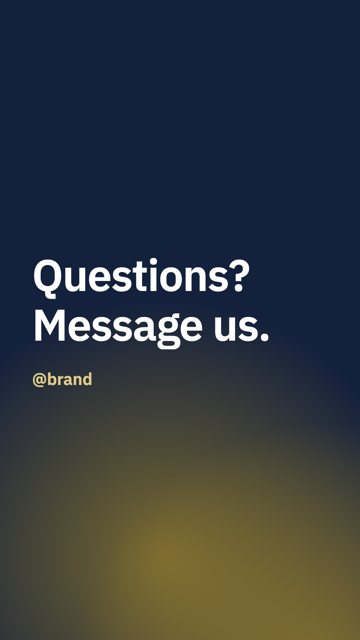
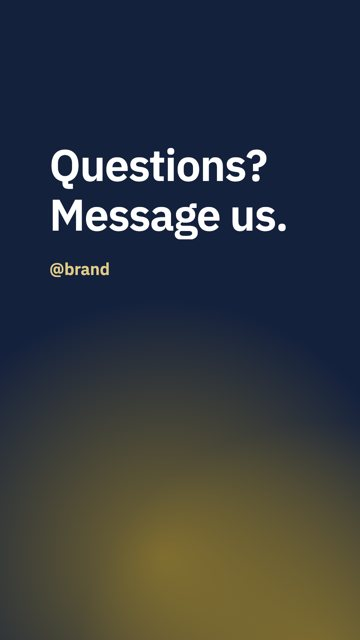
Kit: CTA box inside the safe zone; swiss dark accents use the brand colour

diff --git a/kits/storyboard/text_motion.html b/kits/storyboard/text_motion.html
@@ -71,7 +71,7 @@ html,body{margin:0;width:var(--W,1080px);height:var(--H,1920px);overflow:hidden;
 .qanum{font:600 200px/1 var(--head);color:var(--accent-ink);margin-bottom:30px} .qaq{font:600 78px/1.2 var(--head)}
 .qaa{font:400 56px/1.6 var(--body);text-wrap:pretty;margin-top:auto;padding-top:40px;border-top:3px solid var(--accent)} .qasrc{position:absolute;left:64px;bottom:56px;font:400 34px var(--body);opacity:.7}
 .pageno{position:absolute;right:120px;bottom:120px;font:600 44px var(--body);opacity:.85}
-.ct{background:var(--ink);color:#fff;display:flex;align-items:center} .ctbox{position:absolute;left:96px;right:96px;top:50%;transform:translateY(-50%)}
+.ct{background:var(--ink);color:#fff;display:flex;align-items:center} .ctbox{position:absolute;left:148px;right:120px;top:420px}   /* inside the safe zone: x ≥ 120 and, from y 420, ends above y 840 where the right edge would have to stop at 780 (SL-05 review) */
 .cth{font:600 132px/1.12 var(--head)} .ctsub{font:500 50px/1.45 var(--body);margin-top:32px} .cthandle{font:600 50px var(--body);margin-top:56px;color:color-mix(in srgb,var(--accent) 55%,#fff)}
 
 /* chart (R-05) */
@@ -140,7 +140,7 @@ body:not(.landscape) .dghead{top:15%;left:12%;right:12%} body:not(.landscape) .d
 .nt{padding:90px 84px} .ntlist{margin-top:6px} .ntp{font:400 37px/1.36 var(--body);padding:12px 0 12px 32px;border-top:2px solid rgba(127,127,127,.35);position:relative}
 .ntp::before{content:'';position:absolute;left:0;top:34px;width:12px;height:12px;border-radius:50%;background:var(--accent)} .ntfoot{margin-top:20px;font:600 37px/1.36 var(--body)}
 body.square .phbox{top:150px} body.square .phbig{font-size:120px} body.square .beat:not(.ph){padding:150px 120px 120px}
-.plat-shorts .beat:not(.ph):not(.sp){padding-top:440px;padding-right:140px} .theme-swiss .dark .accent,.theme-swiss .dark .num{color:#FF5A5A} .theme-organic .small{font-size:56px;line-height:1.24}
+.plat-shorts .beat:not(.ph):not(.sp){padding-top:440px;padding-right:140px} .theme-swiss .dark .accent,.theme-swiss .dark .num{color:var(--accent)}   /* the card's brand accent, not a fixed red (SL-05 review) */ .theme-organic .small{font-size:56px;line-height:1.24}
 body:not(.landscape) .dgt{font-size:92px} body:not(.landscape) .dgnode{font-size:52px;padding:14px 10px} body:not(.landscape) .dgnum{font-size:68px} .landscape .dgt{font-size:92px} .landscape .dgnode{font-size:44px}
 .theme-cinema .phbig{font-size:150px;font-weight:500}
 .beat.sp:not(.spfull) .spname{top:22px;bottom:auto} .plat-story .handle{display:none}

diff --git a/kits/storyboard/build_layouts.py b/kits/storyboard/build_layouts.py
@@ -117,7 +117,7 @@ LAYOUTS = [
       字級="題目 96px", 動態="蓋章砸下＋輕震", 畫面層="靜態頁：報頭與蓋章排滿",
       範例={"layout": "verdict", "seconds": 5, "masthead": "MYTH CHECK", "myth": "Bigger text is always easier to read.", "verdict": "FALSE", "why": "Past a size, lines wrap and reading slows."}),
  # ---- 收尾群 -------------------------------------------------------------------------------------------
- dict(id="cta", 名稱="行動卡", 群組="收尾", 角色=["結尾"], 用途="一個行動＋帳號", 字區={"x": [8.9, 91.1], "y": [30.0, 70.0]},
+ dict(id="cta", 名稱="行動卡", 群組="收尾", 角色=["結尾"], 用途="一個行動＋帳號", 字區={"x": [13.7, 88.9], "y": [21.9, 50.0]},
       欄位=[F("text", "字串陣列", True, "≤3 行"), F("sub", "字串"), F("handle", "字串")],
       字級="132px", 動態="逐行升起", 畫面層="必填（9:16）",
       範例={"layout": "cta", "seconds": 3, "text": ["Questions?", "Message us."], "handle": "@brand", "visual": {"type": "glow"}}),

diff --git a/data/changelog.md b/data/changelog.md
@@ -89,3 +89,4 @@
 - 2026-11-20 video_qa（86e3bd4，整合Playbook 修）：有時間軸的逐詞字幕，每句在自己的中點抽格、只核對那一句的字；SL-02 試做片因此通過，範本卡升為採用
 - 2026-11-20 0.30.0 影片流程加複審點與決策窗：負責人的決定集中成 A 開案、B 方向、C 稿件、D 分鏡、E 成片五窗（S0-14；新增 brief 核准、內容角度 2–3 選 1、配音配樂與主視覺、成片核准與縮圖選擇；G0.5、G2.4、G3.8、G6.7）；新代理複審擴到腳本（2.4，兩輪必做）、成片（6.8 新步驟，兩輪必做，S6-14）、選圖（4.2，一輪）、發佈文字（8.4，一輪），分鏡送審改為預設兩輪（S3-35）；`pb.py review-pack --stage script|final|assets|publish --files`；範本牆 `scout serve --brief` 頁首可核准 brief
 - 2026-11-20 pb.py 同步：review-pack 網站審查段、direction --web
+- 2026-11-20 套件修正（SL-05 成片複審回報）：cta 版型的字框移進安全區（左 148、從 y 420 起，圖鑑字區同步）；swiss 主題深底段的重點字改用卡片的品牌強調色，不再寫死紅色
